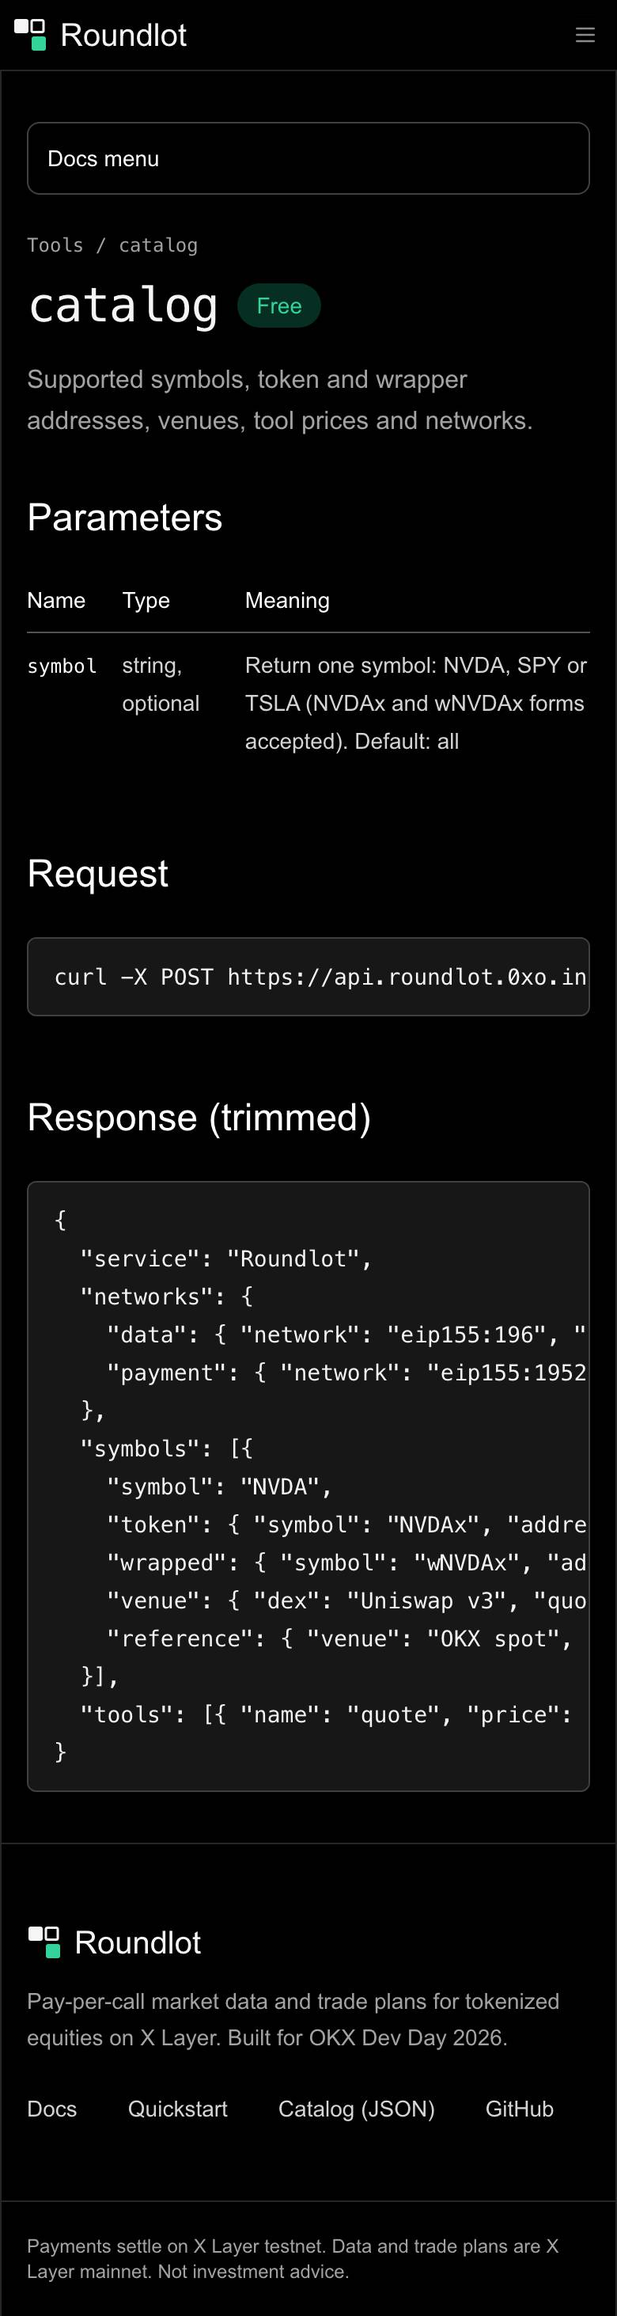
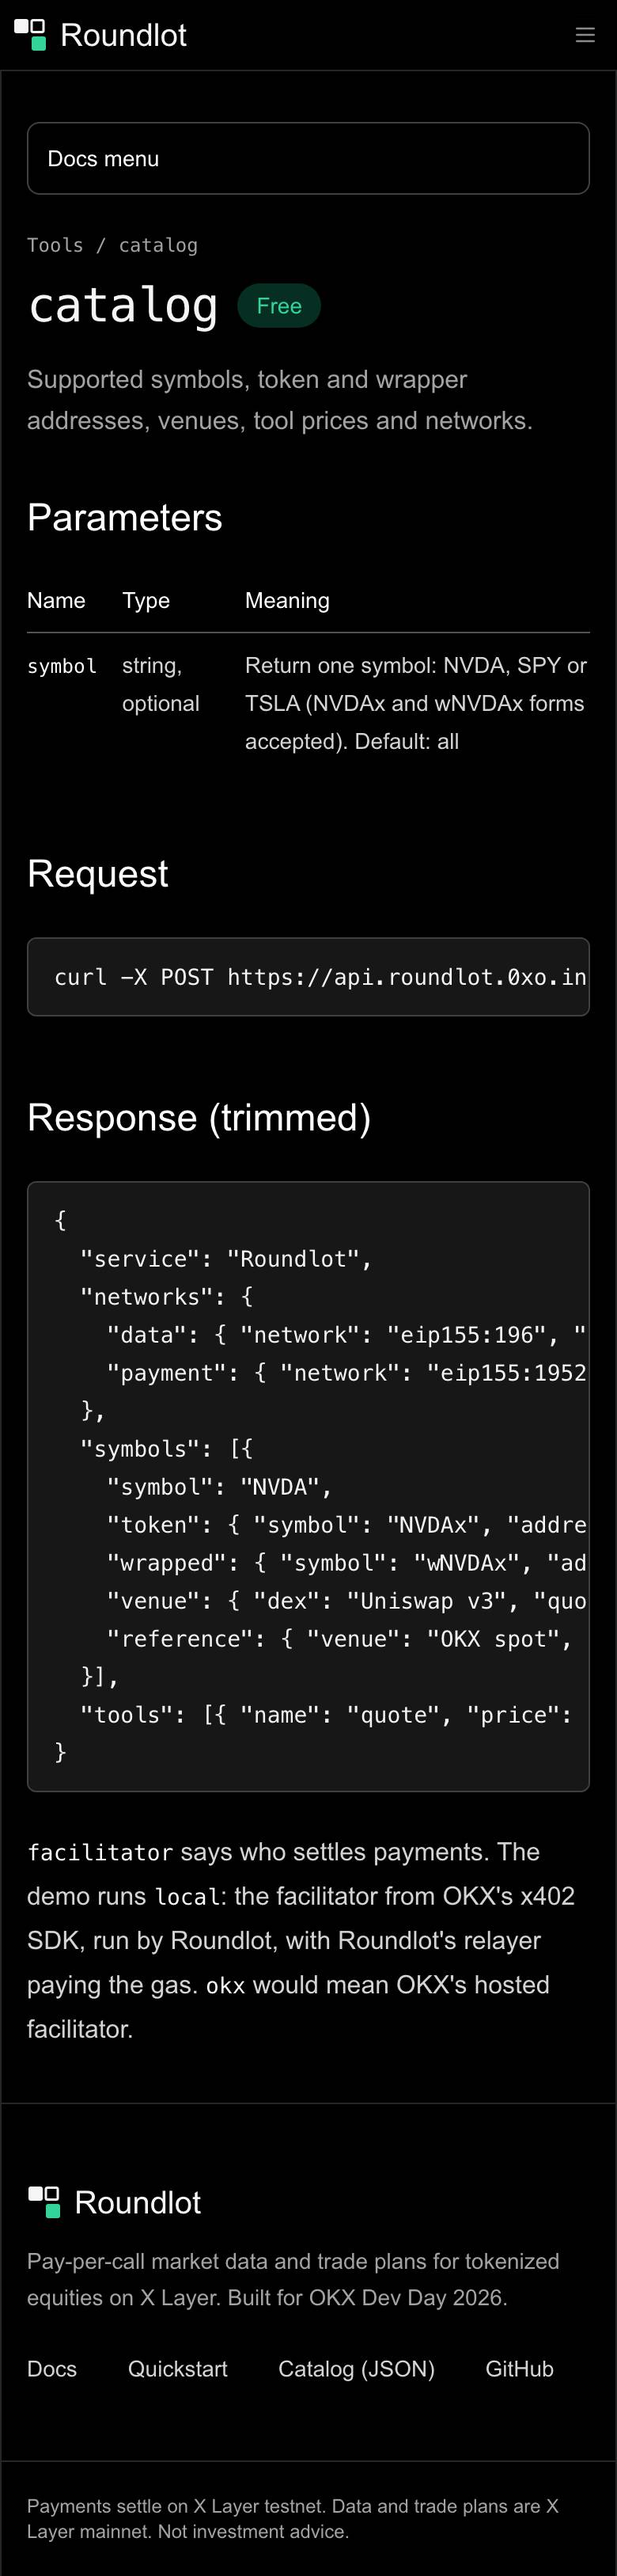
docs: say plainly that the demo's payments settle through our own facilitator
/docs/catalog showed "facilitator": "okx" in its example response while
production runs the self-hosted facilitator; it now shows "local" and
explains both values. The README's facilitator section leads with what
production uses. Screenshots re-shot: 44, no overflow.

diff --git a/README.md b/README.md
@@ -91,9 +91,9 @@ No database: market data is cached in memory (OKX books 2 s, pool state 2 s, tok
 
 ## Facilitator
 
-`FACILITATOR=okx` (default) uses OKX's facilitator (`web3.okx.com`, verify/settle signed with Developer Portal credentials). `FACILITATOR=local` runs an in-process facilitator from OKX's SDK that verifies the signature and submits `transferWithAuthorization` from our own relayer key. `FACILITATOR=off` serves the free catalog only.
-
 **The demo runs on `FACILITATOR=local`.** The OKX Developer Portal key wasn't available in time to test OKX's hosted facilitator against X Layer testnet (`eip155:1952`), so production settles with the facilitator implementation from OKX's own SDK (`x402Facilitator` with `registerExactEvmScheme` from `@okxweb3/app-x402-core` / `app-x402-evm`), running in-process. It verifies each EIP-3009 authorization and submits `transferWithAuthorization` from our relayer [`0x70E5…7156`](https://web3.okx.com/explorer/x-layer-testnet/address/0x70E55b031C9fB28f9E5E21f0cDd13ec9fDe77156), which pays the gas. The `OKXFacilitatorClient` path is wired and selectable with `FACILITATOR=okx`; switching is configuration only.
+
+The three settings: `FACILITATOR=okx` (the code's default, not used in production) uses OKX's facilitator (`web3.okx.com`, verify/settle signed with Developer Portal credentials). `FACILITATOR=local` runs an in-process facilitator from OKX's SDK that verifies the signature and submits `transferWithAuthorization` from our own relayer key. `FACILITATOR=off` serves the free catalog only.
 
 ## Real settlements
 
